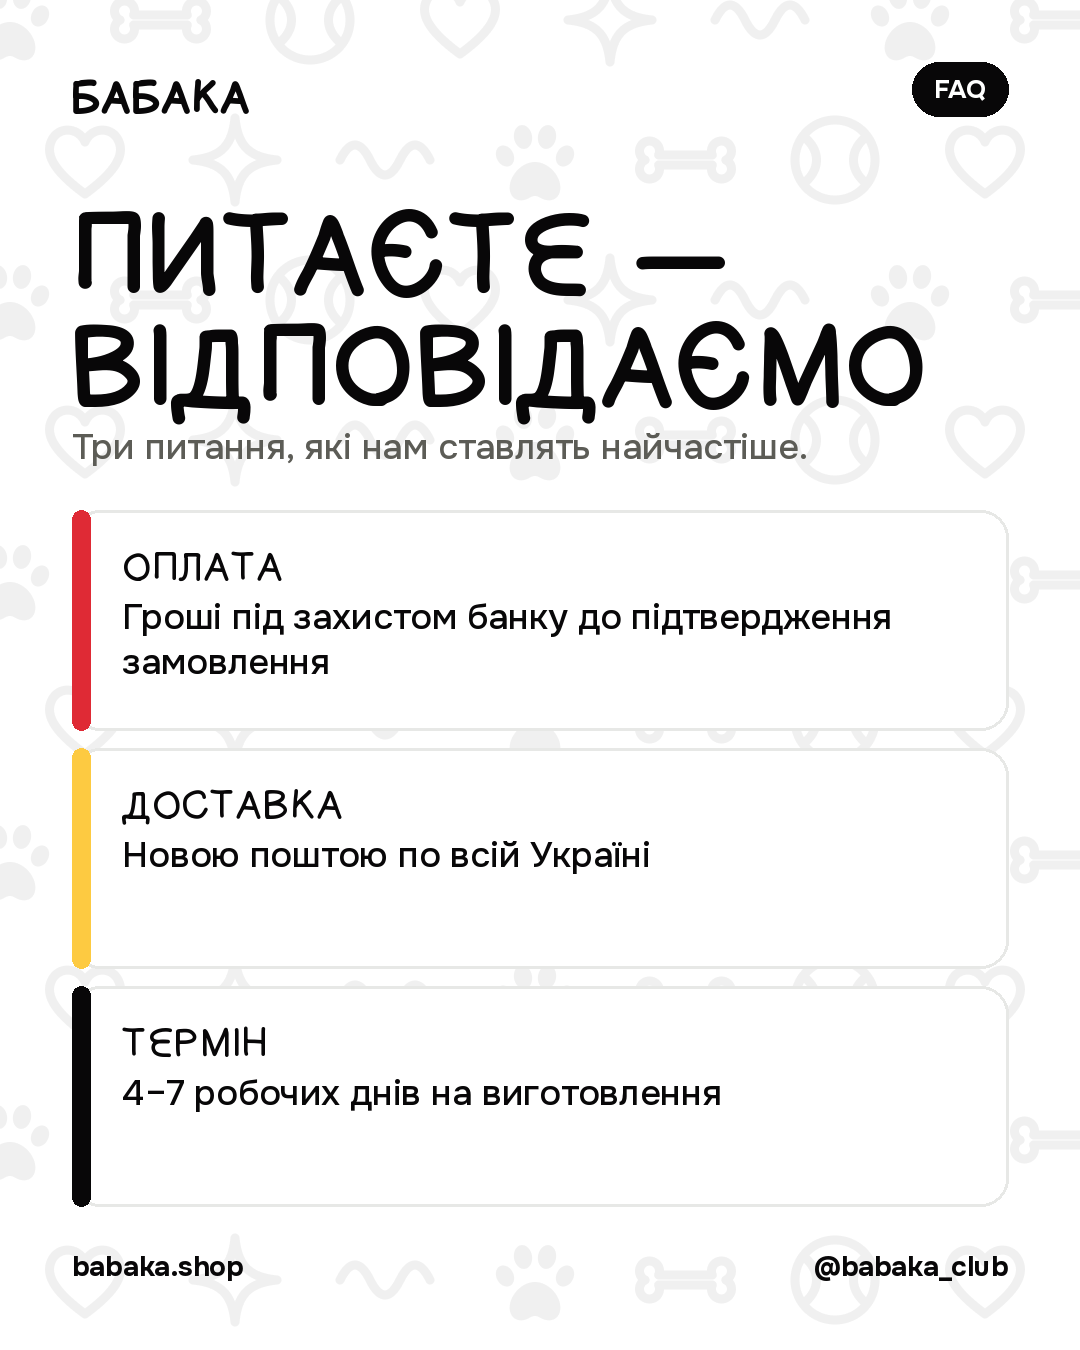
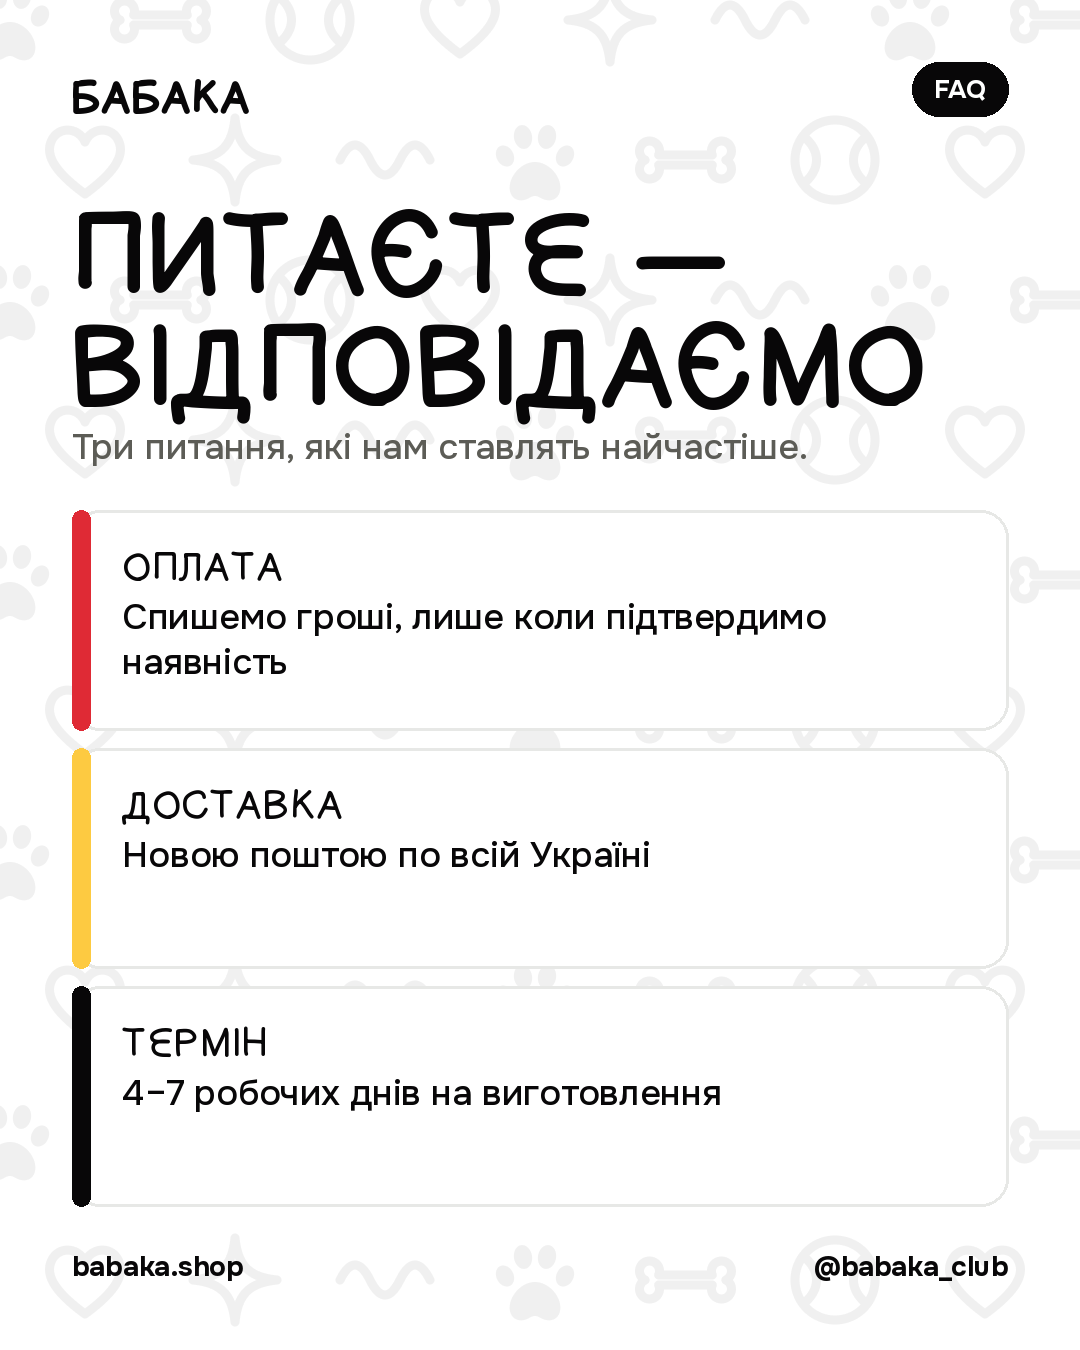
Instagram-план: «Спишемо гроші, лише коли підтвердимо наявність» замість «гроші під захистом банку»
Фраза тепер як у FAQ і кошику сайту: замовлення підтверджуємо ми, а не клієнт.
Пост 07 перемальовано, у брифі 01 білий фон замість кремового (його немає в палітрі).

Claude-Session: https://claude.ai/code/session_01TnhVAoChCFhSYfQNg6KfnT

Changed region(s): [[0.1222, 0.4356, 0.825, 0.4978]]

diff --git a/docs/marketing/instagram-2026-10/render.py b/docs/marketing/instagram-2026-10/render.py
@@ -182,7 +182,7 @@ posts.append(('06 Боня і Паштет — Так він кіт', p06))
 def p07():
     img, d = new(PAPER); chrome(img, d, PAPER, INK, 'FAQ', INK, WHITE)
     y, _ = head(d, 'Питаєте — відповідаємо', 'Три питання, які нам ставлять найчастіше.', INK, GREY)
-    items = [('ОПЛАТА', 'Гроші під захистом банку до підтвердження замовлення', RED),
+    items = [('ОПЛАТА', 'Спишемо гроші, лише коли підтвердимо наявність', RED),
              ('ДОСТАВКА', 'Новою поштою по всій Україні', YEL),
              ('ТЕРМІН', '4–7 робочих днів на виготовлення', INK)]
     top = y + 40; bottom = H - P - 70; gap = 18; ch = (bottom - top - 2 * gap) // 3

diff --git a/docs/marketing/instagram-2026-10/plan.md b/docs/marketing/instagram-2026-10/plan.md
@@ -9,7 +9,7 @@
 - 38 порід, 84 принти в каталозі (дані з babaka.shop на 13.10.2026)
 - Доставка Новою поштою по всій Україні
 - Виготовлення 4–7 робочих днів
-- «Гроші під захистом банку»: оплата утримується банком до підтвердження
+- «Спишемо гроші, лише коли підтвердимо наявність» (оплата через Monobank: гроші блокуються на картці й списуються після нашого підтвердження; як у FAQ і кошику сайту). Формулювання «гроші під захистом банку» не вживати (рішення Олексія, 14.10)
 - Свій принт з фото пса: адаптація +200 ₴ за одне місце нанесення
 - Опт і мерч від 10 шт: babaka.shop/opt
 - Колекції: «Бабаки в пабі», «Бабака UA» та інші: babaka.shop/collections
@@ -39,7 +39,7 @@
 
 ### 01 · Пн 19.10 · Знайомство: «Ми — БАБАКА»
 - **Мета:** довіра
-- **Візуал:** кремовий фон, великий заголовок, сітка 2×2 з чотирьох реальних принтів (Коргі, Такса, Мопс, Француз). Червона плашка «Харків».
+- **Візуал:** білий фон, великий заголовок, сітка 2×2 з чотирьох реальних принтів (Коргі, Такса, Мопс, Француз). Червона плашка «Харків».
 - **На зображенні:** «Ми — БАБАКА» / «Друкуємо одяг з собаками. У Харкові. З любов’ю і шерстю на светрі».
 - **Лінк:** сторіз → babaka.shop/pro-nas
 - **Підпис:**
@@ -91,7 +91,7 @@
 > 3. Ми адаптуємо фото в принт
 > 4. Друкуємо за 4–7 робочих днів
 >
-> Гроші під захистом банку, поки ти не підтвердиш замовлення.
+> Спишемо гроші, лише коли підтвердимо наявність.
 >
 > #принтзфото #портретсобаки #свійпринт #бабака #подаруноксобачнику #одягзсобаками #кастомнийпринт #собачники
 
@@ -153,13 +153,13 @@
 ### 07 · Пн 02.11 · FAQ: оплата, доставка, розмір
 - **Мета:** довіра (знімаємо заперечення)
 - **Візуал (карусель):** обкладинка «Питання, які ви ставите найчастіше» + 3 картки: «Оплата», «Доставка», «Розмір».
-- **На зображенні:** «Питаєте — відповідаємо» / «Гроші під захистом банку · Нова пошта по всій Україні · 4–7 робочих днів».
+- **На зображенні:** «Питаєте — відповідаємо» / «Спишемо гроші, лише коли підтвердимо наявність · Нова пошта по всій Україні · 4–7 робочих днів».
 - **Лінк:** сторіз → babaka.shop/prints
 - **Підпис:**
 
 > Збираємо відповіді в одному місці 📌
 >
-> 💳 Чи безпечно оплачувати? Так. Гроші під захистом банку: вони утримуються, доки ти не підтвердиш замовлення.
+> 💳 Чи безпечно оплачувати? Так: спишемо гроші, лише коли підтвердимо наявність.
 > 📦 Як доставляєте? Новою поштою по всій Україні.
 > ⏳ Скільки чекати? Виготовлення займає 4–7 робочих днів: друкуємо під тебе, а не зі складу.
 > 📏 Як обрати розмір? Напиши нам у директ, який ти зазвичай носиш, і ми підкажемо.
